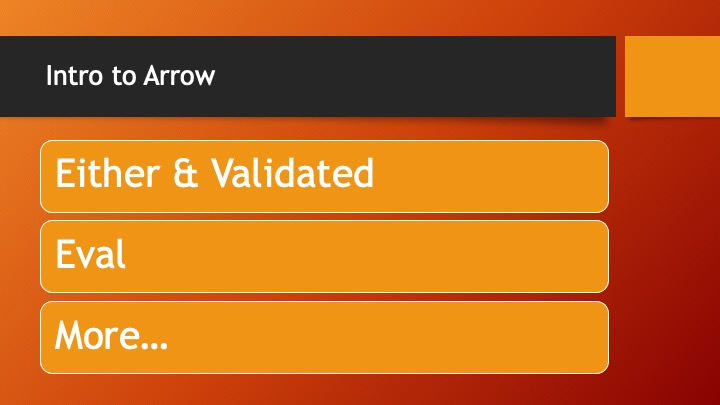
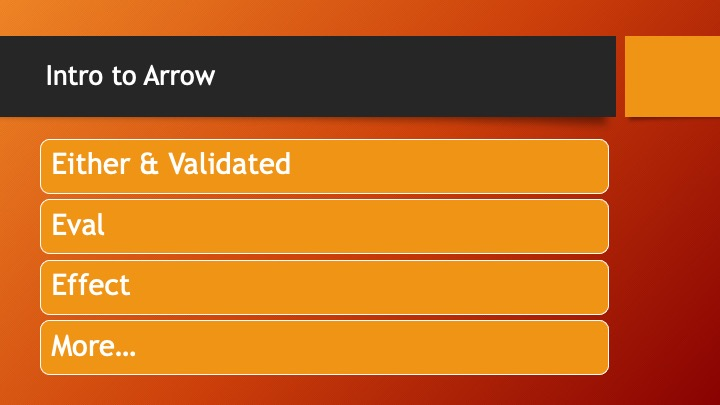
Fix readme links. Add some more exercises to

Changed region(s): [[0.0306, 0.3259, 0.8556, 0.8889], [0.0611, 0.8889, 0.8556, 0.9481]]

diff --git a/src/docs/Exercise-3.md b/src/docs/Exercise-3.md
@@ -27,8 +27,8 @@ the main flow.
 So, for a small exercise using `Either` we can create some methods that will 
 showcase exception handling.
 
-Firstly we create a method that converts a `Price` into another currency.
-For that we can use a conversion map like this one:
+Firstly we need some way of converting a currency into 
+another currency. For that we can use a conversion map like this one:
 ```kotlin
 val conversionMap = mapOf<Pair<String,String>,Double>(
     ("£" to "$") to 1.25,
@@ -178,8 +178,10 @@ fun odd(v: Int): Boolean =
     if (v == 0) false
     else even(v - 1)
 
-// Blow it up
-println(odd(100_000_001))
+fun main() {
+    // Blow it up
+    println(odd(100_000_001))
+}
 ```
 
 So, let's rewrite above code using `Eval`, and here's a start:
@@ -189,4 +191,91 @@ fun even(v: Int): Eval(Boolean) =
         TODO()
     }
 
+fun main() {
+    // Smooth like butter
+    println(odd(100_000_001).value())
+}
 ```
+
+## Effect
+`interface Effect<R, A>`
+
+`Effect` is a `suspend` function that encapsulates the resulting value `A` and 
+an exceptional result `R`.
+
+To write an `Effect` we will use the constructor method `effect` to 
+encapsulate the logic.
+
+The DSL for building effect also has function `shift` for _shifting out of 
+the normal flow_ and returning the exceptional result.
+It also contains validator functions like `ensure(condition) { .. }` that, in 
+case the condition is not satisfied, will shift the result from the lambda.
+
+### Exercise
+To have a look at the way that `Effect` can be used, we create a small 
+function that reads a file.
+
+Take the following code, and let's build on it:
+```kotlin
+object InvalidPath
+
+fun readFile(path: String): Effect<InvalidPath,Unit> = effect {
+    if (path.isBlank()) shift(InvalidPath)
+    else Unit
+}
+```
+
+Now we can improve on this by using some `ensure` methods.
+```kotlin
+fun readFile(path: String): Effect<InvalidPath,Unit> = effect {
+    ensure(path.isNotBlank()) { InvalidPath }
+    Unit
+}
+```
+
+You could also change the function to accept a nullable value `path: String?
+` and add another `ensure` to make sure that the value is actually not null.
+
+
+Next step is to actually read the content of a file. Reading a file can 
+cause other exceptional circumstances, so we can model those other 
+situations like so:
+```kotlin
+sealed class FileError {
+    object InvalidPath: FileError()
+    object FileNotFound: FileError()
+    object SecurityError: FileError()
+}
+```
+
+And we have to ensure we can capture the file content. For that we use a 
+simple class that encapuslates the content as a list of strings:
+```kotlin
+class Content(val body: List<String>)
+```
+
+So continuing from the `readFile` function we should expand it with actual 
+`File(path).readLines()` capability:
+```kotlin
+fun readFile(path: String): Effect<FileError,Content> = effect {
+    ensure(path.isNotBlank()) { FileError.InvalidPath }
+    try {
+        File(path).readLines()
+    } catch (e: FileNotFoundException) {
+        TODO()
+    }
+}
+```
+
+And to invoke this method, and you should try that for valid and invalid 
+paths, we can for instance take the resulting effect and convert it to a 
+`Either` like so (note that main is now also a `suspend` function):
+```kotlin
+suspend fun main() {
+    val result = readFile("gradle.properties").toEither()
+    when(result) {
+        TODO()
+    }
+}
+```
+

diff --git a/Readme.md b/Readme.md
@@ -23,11 +23,12 @@ missing. Please check the installation instructions for
 
 ## Exercises
 
-[Exercise 1](Exercise-1.md) introduces the syntax of functions in Kotlin
+[Exercise 1](src/docs/Exercise-1.md) introduces the syntax of functions in 
+Kotlin
 
-[Exercise 2](Exercise-2.md) goes into the higher-order functions and composition
+[Exercise 2](src/docs/Exercise-2.md) goes into the higher-order functions and composition
 
-[Exercise 3](Exercise-3.md) introduces Atom
+[Exercise 3](src/docs/Exercise-3.md) introduces Arrow
 
 ## Testing your code
 
